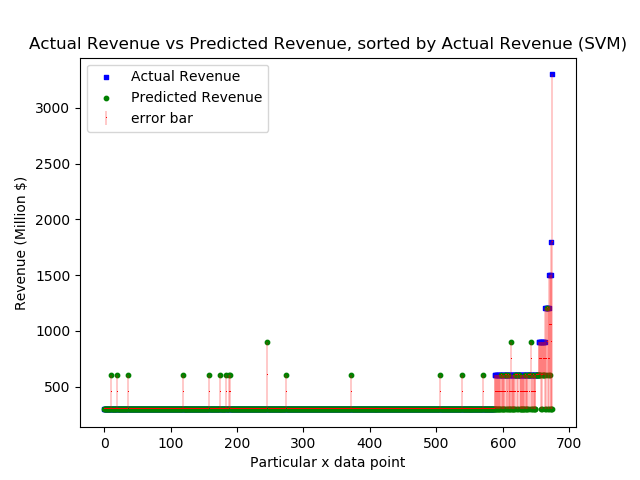
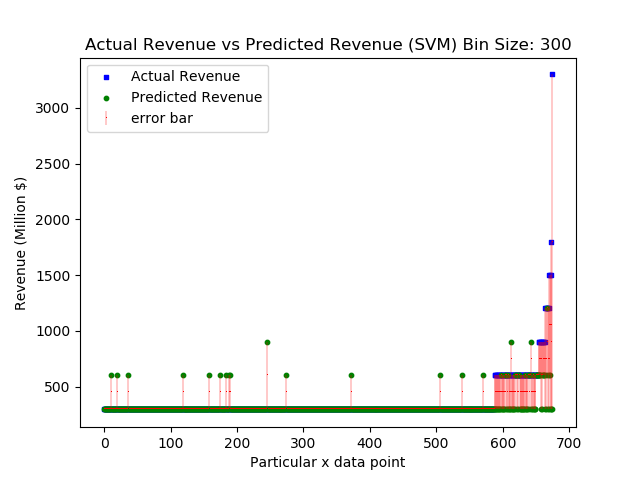
plots for 100bin size

Changed region(s): [[0.0312, 0.0625, 0.9688, 0.125]]

diff --git a/PrithviCodes/plot_scatter.py b/PrithviCodes/plot_scatter.py
@@ -9,8 +9,17 @@ import matplotlib.pyplot as plt
 
 import pandas as pd
 
+# for 300 intervalls 
+'''
 ytest = np.load('actualvalues.npy')
 ypred = np.load('predictedvalues.npy')
+'''
+# for 100 intervals
+#'''
+ytest = np.load('actualvalues_100interval_SVM_Correct.npy')
+ypred = np.load('predictedvalues_100interval_SVM_Correct.npy')
+#'''
+
 # xval = np.load('Xvalues.npy')
 
 
@@ -20,7 +29,7 @@ ytestSorted = ytest[sortedIndices]
 ypredSorted = ypred[sortedIndices]
 
 
-binW = 300
+binW = 100   #change
 
 ytestSorted = ytestSorted*binW+binW
 ypredSorted = ypredSorted*binW+binW
@@ -39,9 +48,9 @@ plt.legend(loc='upper left');
 
 #plt.yticks(range(len(ypredSorted)), [val for val in ypredSorted])
 
-plt.title("Actual Revenue vs Predicted Revenue, sorted by Actual Revenue (SVM)")
+plt.title("Actual Revenue vs Predicted Revenue (SVM) Bin Size: 100")
 plt.xlabel("Particular x data point")
 plt.ylabel("Revenue (Million $)")
 
-plt.savefig('Scatter_predVSActual.png')
-#plt.show()
+plt.savefig('Scatter_predVSActual100.png')
+plt.show()

diff --git a/README.md b/README.md
@@ -268,8 +268,12 @@ What is interesting is that the PCA data with normalization performed worse than
 <p align="center">
   <img src="PrithviCodes/BinVSF1SVM_2.png" >
 </p>
-<p align="center">
-  <img src="PrithviCodes/Scatter_predVSActual.png" >
+<p align="left">
+  <img src="PrithviCodes/Scatter_predVSActual.png" style="width:50%" >
+</p>
+
+<p align="right">
+  <img src="PrithviCodes/Scatter_predVSActual100.png" style="width:50%" >
 </p>
 
 <p align="center">
